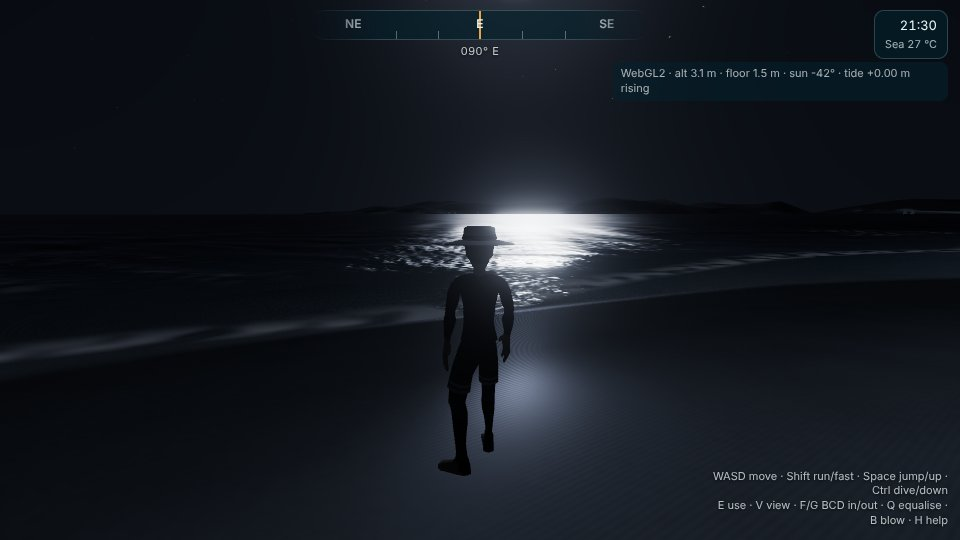
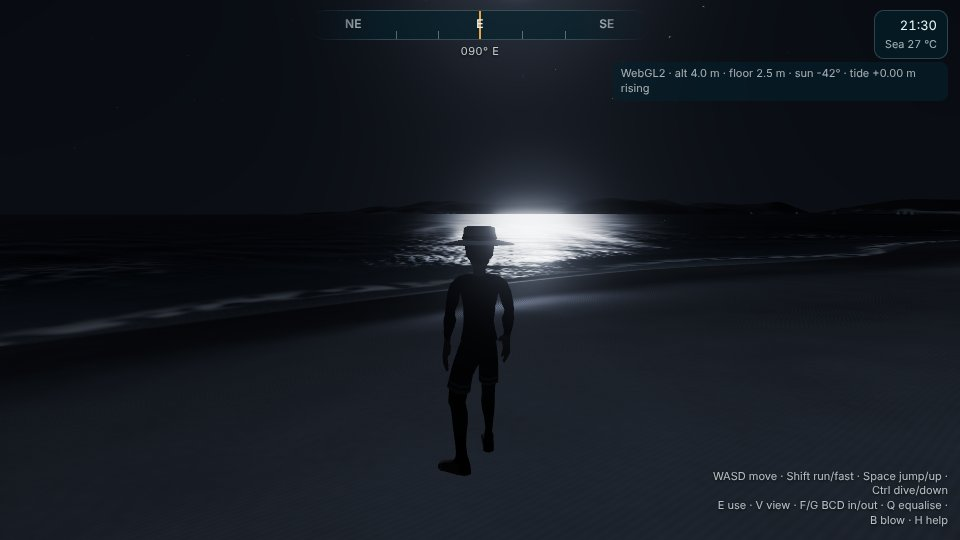
Reef game: the optics source says how Kd is derived now; the handoff rewritten
The game's 'Light in the water' source said Kd was fitted to the imagery; it now comes from the deep water's colour (QAA) unless the depth fit passes its test. docs/HANDOFF_WHITSUNDAYS.md describes the five reef sites as they are now: the pipeline, the viewer's files, how to run and test, what is derived and what is still weak, and the open items.

diff --git a/web/reef/game/sources.js b/web/reef/game/sources.js
@@ -19,7 +19,7 @@ export const SOURCES = {
     says: 'the red, orange and yellow wavelengths of light are absorbed, so the light left is green, cyan and blue' },
   // ---- computed from the model
   'model-terrain': { title: 'Depths and heights in this model', model: true, what: 'the site\'s survey grid (scene.json terrain; for the Great Barrier Reef sites the AusSeabed 30 m bathymetry), sampled where you are' },
-  'model-optics': { title: 'Light in the water', model: true, what: 'env.u.K, the diffuse attenuation per metre in red, green and blue fitted to the Sentinel-2 imagery (cities/<site>/analysis/optics.json), and env.u.lightPath, the sun\'s slant under water after Snell\'s law; the same numbers the renderer uses (env.js medium)' },
+  'model-optics': { title: 'Light in the water', model: true, what: 'env.u.K, the diffuse attenuation per metre in red, green and blue derived from the Sentinel-2 imagery: from the deep water\'s colour (QAA, Lee et al.), or a fit of the floor\'s darkening with depth where that passes a quality test (cities/<site>/analysis/optics.json), and env.u.lightPath, the sun\'s slant under water after Snell\'s law; the same numbers the renderer uses (env.js medium)' },
   'model-sun': { title: 'Sun and clock', model: true, what: 'web/sun.js (NOAA solar position equations) for the site\'s time zone and the viewer\'s clock' },
   'model-pois': { title: 'Place names and positions', model: true, what: 'scene.json pois: OpenStreetMap contributors (ODbL) read through Overture Maps, projected to the local frame' },
   'model-dive': { title: 'Dive computer', model: true, what: 'web/reef/dive.js: the water temperature by month and depth the player\'s HUD shows' },

diff --git a/docs/HANDOFF_WHITSUNDAYS.md b/docs/HANDOFF_WHITSUNDAYS.md
@@ -1,71 +1,105 @@
-# Handoff: Whitsundays and the Great Barrier Reef
+# Handoff: the Great Barrier Reef sites (Whitsundays and four more)
 
-Branch `claude/laughing-mccarthy-fxznj8` (pushed). A marine world, separate from the city viewer: `web/reef/`,
-three.js r186 (vendored in `web/vendor/three`), WebGPU with automatic WebGL2 fallback, all materials in TSL.
-**The water is the hard part and the part most worth a stronger model.** Read "Water: what is real and what is a hack" first.
+Branch `claude/zen-albattani-ywr26e` (pushed), which grew from `claude/laughing-mccarthy-fxznj8` with `main` merged in.
+A marine world separate from the city viewer: `web/reef/`, three.js r186 (vendored in `web/vendor/three`), WebGPU
+with an automatic WebGL2 fallback, all materials in TSL. **WebGPU is still untested**: everything was verified on
+software WebGL2 in a headless browser. The first job on a machine with a GPU is to open each site in Chrome and
+check the WebGPU path (TSL `Loop`, `select`, `.level()` in the vertex stage, `fwidth`, the viewport textures).
 
-## Run it
+## Sites
+
+| id | What | Tide gauge (MSQ) | Notes |
+|---|---|---|---|
+| `whitsundays` | Whitehaven Beach, Hill Inlet, Whitsunday Passage, Hamilton Island; 33 × 33 km | Shute Harbour | [docs/cities/whitsundays.md](cities/whitsundays.md) |
+| `hardy-reef` | Heart Reef, the Reefworld pontoon on the channel wall, Hook/Line/Bait reefs; no land | Bugatti Reef Outer | player spawns on the pontoon deck |
+| `green-island` | the cay off Cairns, Arlington Reef, Michaelmas Cay | Cairns Beacon C1 | jetty on its mapped OSM line |
+| `heron-island` | the cay on the Tropic of Capricorn, Wistari Reef | Bundaberg port | reef flat dries at low tide |
+| `lady-elliot-island` | the southernmost coral cay | Waddy Point (K'gari) | no aircraft (land planes only) |
+
+All five are in `cities/index.json` and `web/data/cities.json` with `group: "Great Barrier Reef"`; the globe shows
+one marker that opens a list of them.
+
+## Run and test
 ```bash
 cd web && python3 -m http.server 8800
-# http://localhost:8800/reef/index.html?city=whitsundays      (WASD + drag; player module spawns on Whitehaven)
-# headless: NODE_PATH=$(npm root -g) node tools/reef_shot.js "still=1&gl=1&freeze=5&x=900&y=450&z=-2&pitch=-14&yaw=70" out.png
+# http://localhost:8800/reef/index.html?city=whitsundays
+# headless: NODE_PATH=$(npm root -g) node tools/reef_shot.js "still=1&gl=1&freeze=5&x=900&y=450&z=60&pitch=-8&yaw=70" out.png
+# state:    NODE_PATH=$(npm root -g) node tools/page_eval.js "reef/index.html?..." "<expression>"   (PORT= for another server)
 ```
-Query: `gl=1` force WebGL2, `still=1` two frames then stop, `freeze=<s>` fixed wave clock, `time=<ISO>` sun/moon, `exp`, `wind` 0..1,
-`tide` m, `mods=` comma list (default `life,boats,player,game`), `post=0`. Coordinates: x east, y north, z up (z<0 under water);
-yaw 90 looks west. **WebGPU cannot be tested in the sandbox** (SwiftShader loses the device); everything was verified on software
-WebGL2 only. First job on a machine with a GPU: open it in Chrome and check the WebGPU path (TSL `Loop`, `select`, `.level(0)` in vertex stage).
+- `?player=1&autotest=1` → `window.__autotest` (39 checks; holds the tide at MSL while it runs).
+- `?gametest=1` → `window.__gametest` (Whitsundays 64; every other site 30-39); `lifestub=1`, `life=0`, `gamesite=generic`.
+- Query keys: `gl=1`, `still=1`, `freeze=<s>` (wave clock), `time=<ISO>` (the model clock: sun, moon, tide), `tide=<m>`
+  (fixes the tide), `wind=0..1`, `exp`, `post=0`, `bloom=0`, `shafts=0`, `mods=` (default `life,boats,player,game`),
+  `odbg=1..7` (ocean debug: glitter, foam, refracted frame, slope variance, normal, height, reflection),
+  `lifecam=<species>`, `boatcam=<name>`, `gameshot=...`. Coordinates: x east, y north, z up (z < 0 under water);
+  yaw 90 looks west.
 
-## Data pipeline (`pipeline/`, config in `cities/whitsundays/city.json`)
-1. `fetch_gbr_bathy.py` AusSeabed GBR 30 m (zip of 4 COGs, each deflated whole: streams ~780 MB, crops). Includes land elevation.
-2. `fetch_sentinel.py` Sentinel-2 L2A from Earth Search, 28 scenes, per pixel the darkest 60% in NIR (glint/cloud), median. Cached stack in `data/raw`.
-3. `fetch_overture.py` (existing) water/land/buildings: fetched but **not yet used** by the marine build.
-4. `build_marine.py` writes `web/data/<id>/`: `terrain.bin` (int16 dm, 30 m), `ground.jpg` (10 m), `habitat.png`, `scene.json`; `cities/<id>/analysis/optics.json`.
-   - Inverts the water column (Maritorena 1994) to get the sea floor's own colour. Rinf is a smoothed local map of deep water; Kd per band fitted on sand vs depth.
-   - Measured: Kd blue 0.054, green 0.080 /m. Red fit (0.19) is unreliable, so **0.40 (pure-water a_w(665 nm)) is used as a floor**. Sand-brightness depth spread: blue 103% raw to 43% inverted, green 136% to 29%. Not solved, only reduced.
-   - Habitat classes are **inferred** from floor colour + depth (thresholds in the script), not surveyed. Allen Coral Atlas would be the right source (site reachable, API not tried).
-   - Land colour gain 1.6; deep floor beyond ~25 m is filled with smoothed colour (invisible anyway).
-5. `hardy-reef` (outer reef, Heart Reef, 70 km off) is configured in `cities/hardy-reef/`; raw bathymetry and Sentinel-2 are downloaded in `data/raw/hardy-reef` (git-ignored) but **`build_marine.py --city hardy-reef` has not been run** and the viewer has no start view/POIs for it.
+## Data pipeline (`pipeline/`, config in `cities/<id>/city.json`)
+1. `fetch_gbr_bathy.py <id>`: AusSeabed GBR 30 m; grid extents from the COG headers, one inflated grid cached in
+   `data/raw/_gbr/<letter>.tif` per grid and shared, resumable.
+2. `fetch_sentinel.py --city <id>`: Sentinel-2 L2A from Earth Search, whole passes that cover every tile (no seam
+   from mixed dates), per pixel the darkest in the near infrared; B1-B4 and B8, and each scene's sun angle.
+3. `build_marine.py --city <id>`: terrain (no-data filled from the nearest cell), the floor colour inverted through
+   the water column, habitat, optics, cays rebuilt from their OSM outlines; calls `marine_meta.py`.
+   **Kd** comes from QAA (Lee et al. 2002/2014; Kd from Lee et al. 2005) on the deep water's colour, unless the depth fit
+   passes a quality test (`qaa.py`); red is held at pure water's 0.40. Both are in `analysis/optics.json`.
+4. `marine_meta.py --city <id>`: POIs, spawn and the harbour layout into `scene.json`, no raw data needed.
+5. `fetch_tide.py --city <id>`: Maritime Safety Queensland's 10-minute predictions through the Queensland open data
+   portal's **datastore API** (the CSV downloads are behind a bot check: do not try to get round it), fitted to 60
+   constituents per year → `tide.json`. Time base AEST, checked against NASA GOT4.10c (M2 phase).
+6. `check_marine.py --city <id>`: POIs, pontoon and spawn against the built terrain.
 
-## Viewer files (`web/reef/`)
+`city.json` blocks for a marine site: `pois` (`lonlat` or nominal `xy`, `kind`, `src`), `poi_sources`, `spawn`
+(`poi` or `x`/`y`, `heading`, `deck: "pontoon"`), `harbour` (`fleets`, `marina` {`at`, `from`, `fingers`, `boats`},
+`pontoon` {`at`, `exact`, `heading`, `name`}, `parked`, `moorings`, `traffic` routes by POI id, `scenic`, `nav_cell`),
+`tide` {`gauge`, `years`: resource ids, `note`}.
+
+## Viewer (`web/reef/`)
 | File | Role |
 |---|---|
-| `main.js` | renderer, scene, modules via `ctx` (`init(ctx)` returns `{update}`), fly camera, `?still` test mode |
-| `env.js` | wave bank (3 bands), sky/moon/stars, **`medium()` = water column, installed as `scene.fogNode`**, `caustic()`, sun from `window.Sun` |
-| `ocean.js` | radial mesh around camera, Gerstner displacement, foam from compression + shore, Snell's window from below |
-| `world.js` | 30 m terrain chunks with LOD + skirts, height half-float texture, habitat lookup |
-| `shore.js` | 2 m detail patch (bicubic + dunes), sand ripple normals, wet sand |
-| `post.js` | bloom, underwater light shafts (14-step march), vignette |
-| `boats.js` + `boats/` | merged from `claude/reef-boats`: vessels, buoyancy, wake, AI traffic, drivable boats/aircraft |
-| `player.js` `people.js` `looks.js` `gear.js` `dive.js` `hud.js` `fx.js` | merged from `claude/reef-player`: Quaternius people on r186, snorkel/freedive/scuba with dive tables, HUD, `?autotest=1` (35 pass) |
-| `life.js` | **not merged**: corals, fish, turtles, trees, plankton. Agent `a060886d9f1a6916b` was still running at handoff; its branch will be a `worktree-agent-a060886d9f1a6916b` or similar; check `git branch -r` |
-| `game.js` | **not written**: NPCs, quests, dialogue (see below) |
+| `main.js` | renderer, modules via `ctx` (`init(ctx)` returns `{update}`), the model clock (`ctx.clockMs`), the tide (`ctx.tide`), light and the eye's adaptation, the torch, fly camera |
+| `env.js` | sky, wave bank (swell + chop), `medium()` = the water column (installed as `scene.fogNode`) with the directional light field under water, caustics, the torch (`env.torch`) |
+| `ripples.js` | periodic wave tiles rendered each frame to mipmapped gradient/Hessian textures: ripples (0.3-2.4 m) and the chop's shading at range (3-24 m) |
+| `ocean.js` | radial mesh, Gerstner displacement, Cox-Munk sun and moon glitter with Smith masking, refraction, foam (whitecaps by wind, breakers by H/d), Snell's window |
+| `world.js` | terrain chunks with LOD and far 4 × 4 blocks, water heights (hollows the sea cannot reach are dry), habitat |
+| `shore.js` | 2 m detail patch near the camera |
+| `post.js` | bloom, light shafts, vignette, night vision (Purkinje shift, kept in bright pixels and the torch beam) |
+| `tide.js` | the tide from `tide.json`: `at(ms)`, `turns(ms, n)`, `rising(ms)` |
+| `boats.js` + `boats/` | vessels, wakes, AI traffic over the open water (A*, 120 m cells or `nav_cell`, routes planned for the lowest tide), drivable boats and aircraft, `deckAt` for walkable decks, far LOD |
+| `player.js` `people.js` `looks.js` `gear.js` `dive.js` `hud.js` `fx.js` | the player (walk, wade, swim, snorkel, free-dive, scuba; decks; climb out), Quaternius people, HUD |
+| `life.js` + `life/` | corals, seagrass, fish, sharks, rays, turtles, the manta, island trees, plankton, coral spawning; `ctx.life` API (header of life.js) |
+| `game.js` + `game/` | people, dialogue, quests, journal (J), map and travel (T), boarding; one content file per site; every line computed or cited ([docs/GAME_REEF.md](GAME_REEF.md)) |
 
-## Water: what is real and what is a hack
-Real (physically derived, keep):
-- Seen-through-water floor: `R = A e^(-K(Lw+m z)) + Rinf(1-e^(-K(Lw+m z)))`, same formula the build inverts, so the surface view should reproduce the satellite. `m` = sun slant after Snell (n 1.34). Veil is the closed-form single-scatter integral (`env.js` medium).
-- Caustics = 1/|det(I - 0.25 D H)| from the Hessian of the same wave bank, sun-direction shifted, fading with depth (`env.caustic`).
-- Foam from the Jacobian of the Gerstner horizontal displacement; Fresnel; Snell's window and TIR from below.
+## What is real and what is still a hack
+Real (derived, keep): the water-column model and its inversion; Kd from QAA; caustics from the wave Hessian; glitter
+as the Cox-Munk distribution of the slope variance a pixel cannot show (mips and faded waves feed it); whitecap cover
+(Monahan) and breaking (McCowan); the radiance distribution under water (Lee's rrs conversion, clear-water ratios);
+the moon (Allen's phase law) and twilight; the tide (MSQ, 1-3 cm RMS); the sea reaching only connected hollows.
 
-Hacks / known weak spots (where to spend effort):
-1. **Underwater veil boost 3.6x and an eye-adaptation 2.4x** in `medium()`: tuned by eye so horizontal views are not black. Needs a proper radiance-distribution model (radiance ~ nadir x ~2 sideways, x n^2 under the surface).
-2. **No refraction**: the floor seen through the surface is not displaced by waves; only caustics carry the wave signal. A screen-space refraction pass would fix it; careful with the depth-based medium.
-3. **Wave count is small (33 sines), not FFT.** Tidewater's idea (3-band cascaded FFT + Gerstner swell) needs WebGPU compute; keep the sine bank as the WebGL2 fallback. Radial ring mesh shows moire at distance; per-wave fade helps, not solved.
-4. **Foam has no memory** (no persistence/advection); shore foam is analytic bands on the swash, not a simulation. The boats' wake foam is a separate texture (`boats/wake.js`; hooked by wrapping ocean materials, see its header; a native hook in `ocean.js` is cleaner).
-5. **Tide**: `env.u.tide` is a manual uniform (default 0). Whitsunday tides are ~3-4 m spring range and Hill Inlet's swirl depends on it. No tide model yet (needs verified constituents for Shute Harbour / Hamilton; do not invent).
-6. **30 m terrain** limits shorelines; `shore.js` fakes detail near the camera. The water's depth lookup uses the coarse texture, so water edge and detail sand can disagree by tens of cm.
-7. Kd is **one scene-wide value**; the sea is clearer offshore (Rinf varies, Kd does not). Sentinel-2 vertical seam at the MGRS tile overlap is reduced but visible in `ground.jpg`.
-8. Ripple/glitter aliasing at range; sun glitter uses a huge power term. Night is very dark (moon only brightens the hemisphere light).
-9. Habitat map -> coral placement depends on thresholds that were not validated.
+Weak spots, in order of value:
+1. **WebGPU untested** (above).
+2. **The swell is four waves**: their interference is regular; a cascaded FFT ocean (WebGPU compute) with the sine bank
+   kept for WebGL2 is the right next step. The chop and ripples are tiles already.
+3. **Foam has no memory** (no advection or persistence); the wake field (`boats/wake.js`) is the only foam with history.
+4. **One Kd per site**, and QAA's green Kd is probably high (surface reflectance keeps some sky glint); habitat is inferred
+   from colour and depth, not surveyed (the Allen Coral Atlas is the right source). The Whitsundays' `ground.jpg` has a
+   few fill discs in 6-7 m water north-west of Whitsunday Island.
+5. **30 m terrain**: shorelines rely on `shore.js`; tidal flats at Hill Inlet are right in kind, not in detail.
+6. **Night**: the adaptation curve and the torch strength are judged by eye; coral spawning colours are physically
+   absorbed by the water beyond a metre or two.
+7. **Life**: shapes, colours, densities and behaviours are approximations (life.js header lists what is sourced).
+   Island vegetation is being made per site (coral cays have Pisonia forest, not hoop pine).
+8. **Performance**: about 230 objects in view at the start view after the vessel and herd LOD; the terrain chunks
+   near the camera and the vessels are the next targets; mobile is untested.
 
-## Remaining plan
-1. Merge `life.js` branch; check `?mods=life` frame time and that corals look right under the water column (red is gone below ~5 m; colours rely on blue/teal/yellow).
-2. `game.js`: NPCs near spawn (skipper, ranger, Ngaro Elder, dive instructor), quest journal. Player API: `ctx.spawnPerson(role, {x, north, heading})`, `ctx.player.addInteractable({x, north, radius, label, action})`, `ctx.hud.say/prompt`, `ctx.player.onChange`, `life.nearestCreature` / `life.species` for a fish-ID survey. Lines should be **computed from the model** (e.g. share of red left at 8 m from `env.u.K` and `lightPath`).
-   Verified facts only (Wikipedia, fetched): 74 continental islands; Whitsunday Island 109 km2; Cook named the passage 3 June 1770; Ngaro and Gia are the Traditional Owners ("canoe people"); Whitehaven 7 km, 98% silica, stays cool underfoot; GBR 2,300 km, 2,900 reefs, ~400 coral species, 1,500+ fish species, six turtle species; mass bleaching 1998, 2002, 2006, 2016, 2017, 2020, 2022; inner reefs spawn the week after the October full moon (late Oct 2026 is that week). Stinger season Oct to May is from general knowledge, not yet cited. **Anything about Ngaro history beyond that needs a Traditional Owner or a primary source; do not invent quotes or ceremony.**
-3. Build `hardy-reef` (add `start`, pontoon site, Heart Reef) and give the globe a second marker.
-4. Check on WebGPU; add `docs/cities/whitsundays.md` (method, optics.json numbers, checks), README row + screenshots in `docs/images/reef/`.
-5. Performance pass: draw calls (terrain chunks), per-frame allocations, mobile.
+## Open items
+- Per-site flora and fauna for the cays (in progress at handoff: a `life` block in `city.json` read by life.js).
+- QPWS pages (Ngaro Sea Trail, Nara Inlet cultural site) are behind Cloudflare; read them in a normal browser before
+  adding Ngaro content beyond the mapped lookout names. **Do not invent Ngaro history, quotes or ceremony.**
+- Fix the Chalkies anchorage nominal spot (boats find depth 570 m away); OSM beach markers at South Whitehaven, Chance Bay
+  and Catseye sit behind the sand (`check_marine.py` lists them).
 
 ## Repo notes
-- Shared files touched: `web/globe.js` (opens `c.viewer` pages), `cities/index.json` and `web/data/cities.json` (whitsundays entry). `.gitignore` ignores `.claude/worktrees/`.
+- Commits: author Mira190, subject and body only, no trailers (AGENTS.md).
+- Shared files touched: `web/globe.js` and `web/index.html` (grouped markers), `cities/index.json`, `web/data/cities.json`, README.
 - `web/vendor/three/` is three r186 + a few addons; extend with files from `npm i three@0.186.1`.
-- Commits end with the Co-Authored-By / Claude-Session lines the harness asks for.
